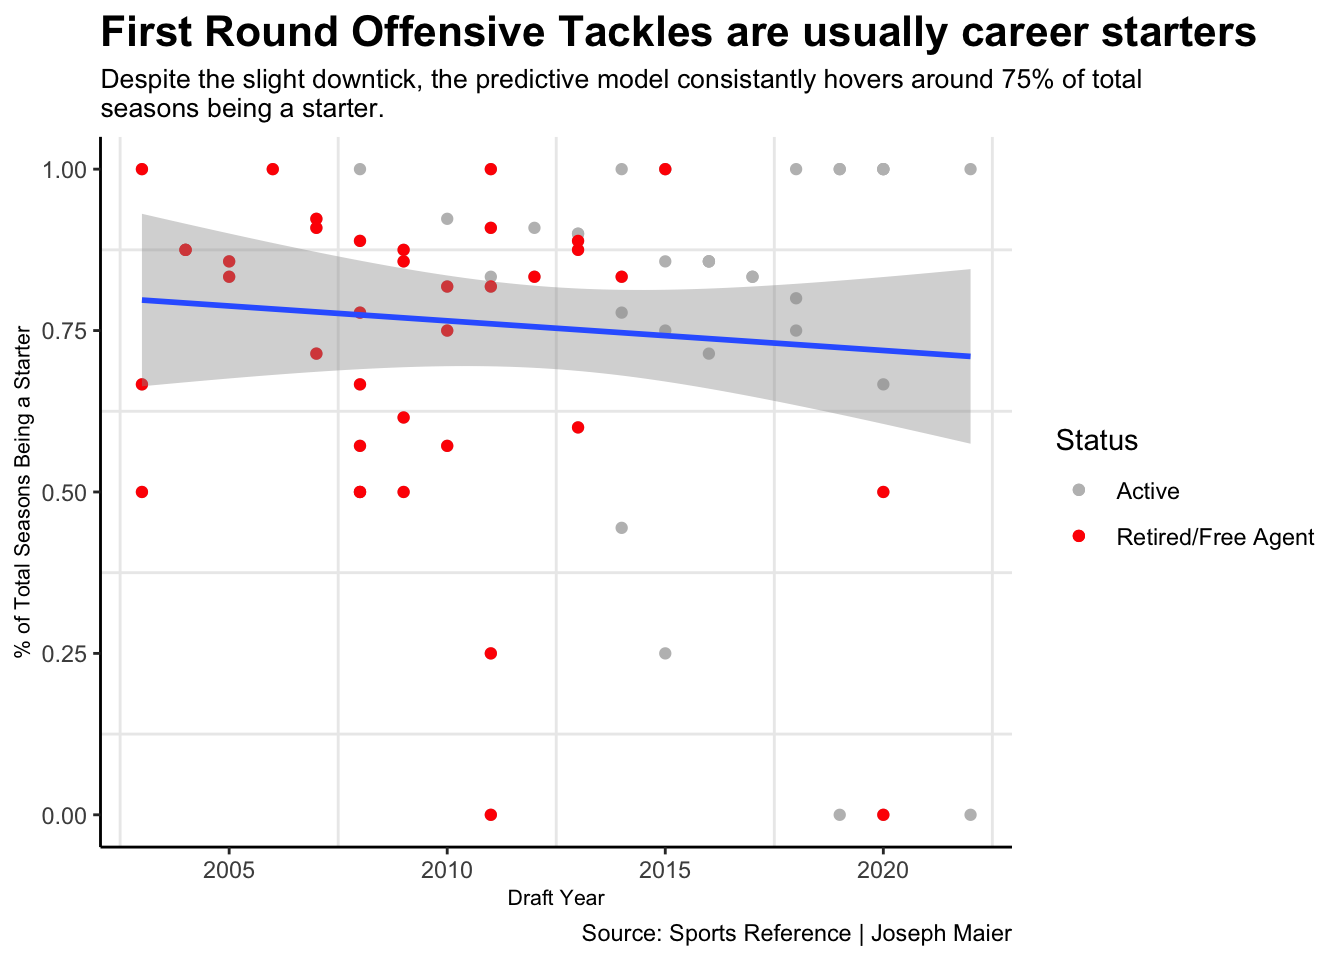
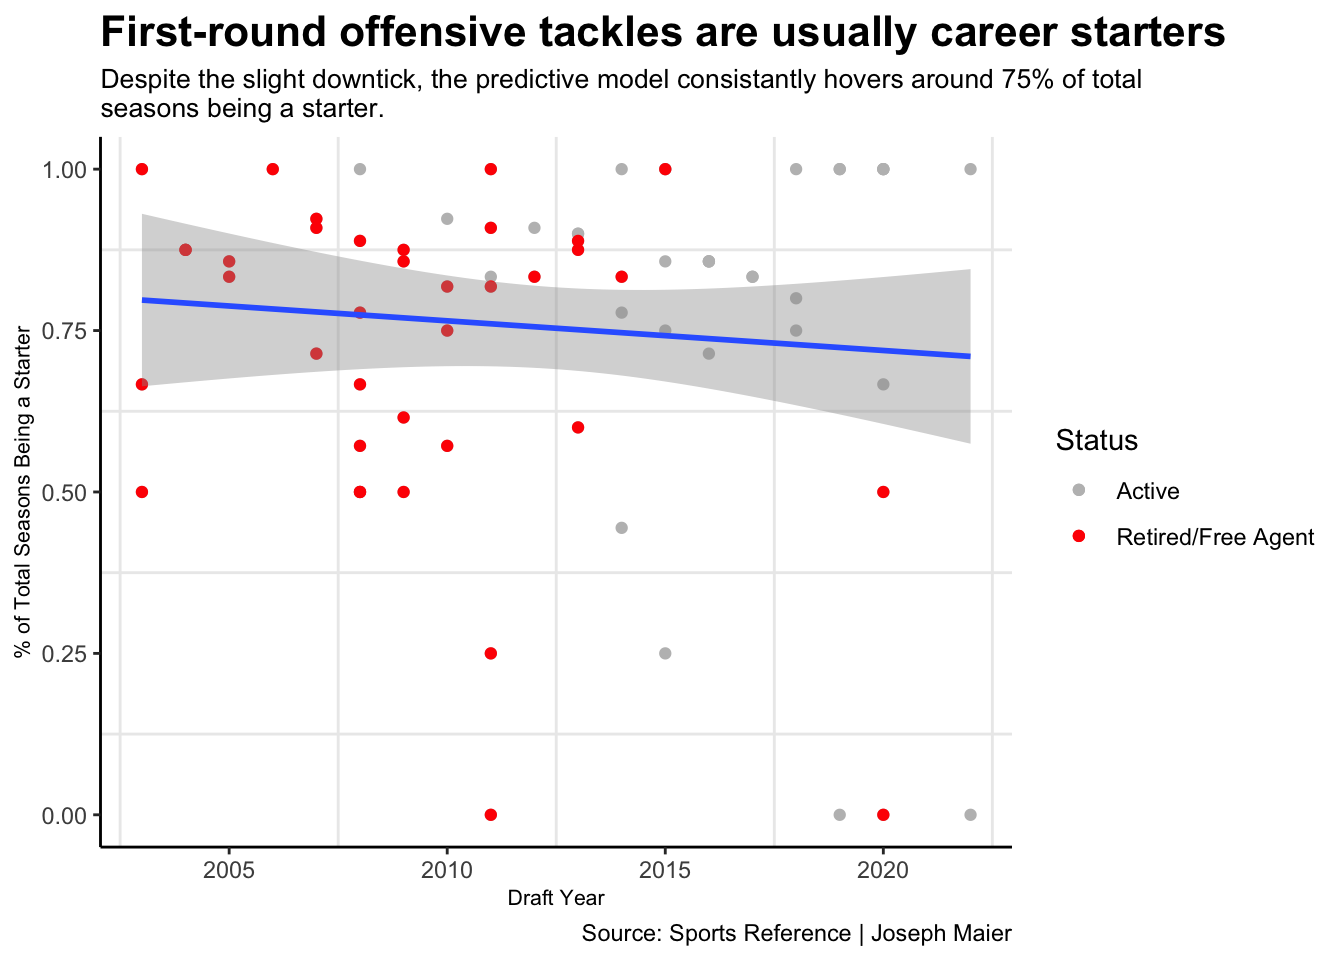
Final
Final test to make sure everything is working

Changed region(s): [[0.1562, 0.0, 0.9375, 0.0625]]

diff --git a/posts/first_round_running_backs/index.html b/posts/first_round_running_backs/index.html
@@ -6,8 +6,10 @@
 
 <meta name="viewport" content="width=device-width, initial-scale=1.0, user-scalable=yes">
 
+<meta name="author" content="Joseph Maier">
+<meta name="dcterms.date" content="2022-04-16">
 
-<title>Joseph Maier’s Blog - Latest Posts</title>
+<title>Joseph Maier’s Blog - Are first-round running backs worth the price?</title>
 <style>
 code{white-space: pre-wrap;}
 span.smallcaps{font-variant: small-caps;}
@@ -23,26 +25,24 @@ ul.task-list li input[type="checkbox"] {
 </style>
 
 
-<script src="site_libs/quarto-nav/quarto-nav.js"></script>
-<script src="site_libs/quarto-nav/headroom.min.js"></script>
-<script src="site_libs/clipboard/clipboard.min.js"></script>
-<script src="site_libs/quarto-search/autocomplete.umd.js"></script>
-<script src="site_libs/quarto-search/fuse.min.js"></script>
-<script src="site_libs/quarto-search/quarto-search.js"></script>
-<meta name="quarto:offset" content="./">
-<script src="site_libs/quarto-listing/list.min.js"></script>
-<script src="site_libs/quarto-listing/quarto-listing.js"></script>
-<script src="site_libs/quarto-html/quarto.js"></script>
-<script src="site_libs/quarto-html/popper.min.js"></script>
-<script src="site_libs/quarto-html/tippy.umd.min.js"></script>
-<script src="site_libs/quarto-html/anchor.min.js"></script>
-<link href="site_libs/quarto-html/tippy.css" rel="stylesheet">
-<link href="site_libs/quarto-html/quarto-syntax-highlighting.css" rel="stylesheet" class="quarto-color-scheme" id="quarto-text-highlighting-styles">
-<link href="site_libs/quarto-html/quarto-syntax-highlighting-dark.css" rel="prefetch" class="quarto-color-scheme quarto-color-alternate" id="quarto-text-highlighting-styles">
-<script src="site_libs/bootstrap/bootstrap.min.js"></script>
-<link href="site_libs/bootstrap/bootstrap-icons.css" rel="stylesheet">
-<link href="site_libs/bootstrap/bootstrap.min.css" rel="stylesheet" class="quarto-color-scheme" id="quarto-bootstrap" data-mode="light">
-<link href="site_libs/bootstrap/bootstrap-dark.min.css" rel="prefetch" class="quarto-color-scheme quarto-color-alternate" id="quarto-bootstrap" data-mode="dark">
+<script src="../../site_libs/quarto-nav/quarto-nav.js"></script>
+<script src="../../site_libs/quarto-nav/headroom.min.js"></script>
+<script src="../../site_libs/clipboard/clipboard.min.js"></script>
+<script src="../../site_libs/quarto-search/autocomplete.umd.js"></script>
+<script src="../../site_libs/quarto-search/fuse.min.js"></script>
+<script src="../../site_libs/quarto-search/quarto-search.js"></script>
+<meta name="quarto:offset" content="../../">
+<script src="../../site_libs/quarto-html/quarto.js"></script>
+<script src="../../site_libs/quarto-html/popper.min.js"></script>
+<script src="../../site_libs/quarto-html/tippy.umd.min.js"></script>
+<script src="../../site_libs/quarto-html/anchor.min.js"></script>
+<link href="../../site_libs/quarto-html/tippy.css" rel="stylesheet">
+<link href="../../site_libs/quarto-html/quarto-syntax-highlighting.css" rel="stylesheet" class="quarto-color-scheme" id="quarto-text-highlighting-styles">
+<link href="../../site_libs/quarto-html/quarto-syntax-highlighting-dark.css" rel="prefetch" class="quarto-color-scheme quarto-color-alternate" id="quarto-text-highlighting-styles">
+<script src="../../site_libs/bootstrap/bootstrap.min.js"></script>
+<link href="../../site_libs/bootstrap/bootstrap-icons.css" rel="stylesheet">
+<link href="../../site_libs/bootstrap/bootstrap.min.css" rel="stylesheet" class="quarto-color-scheme" id="quarto-bootstrap" data-mode="light">
+<link href="../../site_libs/bootstrap/bootstrap-dark.min.css" rel="prefetch" class="quarto-color-scheme quarto-color-alternate" id="quarto-bootstrap" data-mode="dark">
 <script id="quarto-search-options" type="application/json">{
   "location": "navbar",
   "copy-button": false,
@@ -62,49 +62,19 @@ ul.task-list li input[type="checkbox"] {
     "search-submit-button-title": "Submit"
   }
 }</script>
-<script>
 
-  window.document.addEventListener("DOMContentLoaded", function (_event) {
-    const listingTargetEl = window.document.querySelector('#listing-listing .list');
-    if (!listingTargetEl) {
-      // No listing discovered, do not attach.
-      return; 
-    }
 
-    const options = {
-      valueNames: ['listing-date','listing-title','listing-author','listing-image','listing-description','listing-categories',{ data: ['index'] },{ data: ['categories'] },{ data: ['listing-date-sort'] },{ data: ['listing-file-modified-sort'] }],
-      
-      searchColumns: ["listing-date","listing-title","listing-author","listing-image","listing-description","listing-categories"],
-    };
-
-    window['quarto-listings'] = window['quarto-listings'] || {};
-    window['quarto-listings']['listing-listing'] = new List('listing-listing', options);
-
-    if (window['quarto-listing-loaded']) {
-      window['quarto-listing-loaded']();
-    }
-  });
-
-  window.addEventListener('hashchange',() => {
-    if (window['quarto-listing-loaded']) {
-      window['quarto-listing-loaded']();
-    }
-  })
-  </script>
-
-  <script src="https://cdn.jsdelivr.net/npm/mathjax@3/es5/tex-chtml-full.js" type="text/javascript"></script>
-
-<link rel="stylesheet" href="styles.css">
+<link rel="stylesheet" href="../../styles.css">
 </head>
 
-<body class="nav-fixed">
+<body class="nav-fixed fullcontent">
 
 <div id="quarto-search-results"></div>
   <header id="quarto-header" class="headroom fixed-top">
     <nav class="navbar navbar-expand-lg navbar-dark ">
       <div class="navbar-container container-fluid">
       <div class="navbar-brand-container">
-    <a class="navbar-brand" href="./index.html">
+    <a class="navbar-brand" href="../../index.html">
     <span class="navbar-title">Joseph Maier’s Blog</span>
     </a>
   </div>
@@ -114,7 +84,7 @@ ul.task-list li input[type="checkbox"] {
           <div class="collapse navbar-collapse" id="navbarCollapse">
             <ul class="navbar-nav navbar-nav-scroll ms-auto">
   <li class="nav-item">
-    <a class="nav-link" href="./about.html">
+    <a class="nav-link" href="../../about.html">
  <span class="menu-text">About</span></a>
   </li>  
   <li class="nav-item compact">
@@ -137,86 +107,52 @@ ul.task-list li input[type="checkbox"] {
     </nav>
 </header>
 <!-- content -->
-<header id="title-block-header" class="quarto-title-block default page-columns page-full">
-  <div class="quarto-title-banner page-columns page-full">
-    <div class="quarto-title column-page-left">
-      <h1 class="title">Latest Posts</h1>
-                      </div>
-  </div>
-    
-  
-  <div class="quarto-title-meta">
-
-      
-    
-      
-    </div>
-    
-  
-  </header><div id="quarto-content" class="quarto-container page-columns page-rows-contents page-layout-full page-navbar">
+<div id="quarto-content" class="quarto-container page-columns page-rows-contents page-layout-article page-navbar">
 <!-- sidebar -->
 <!-- margin-sidebar -->
-    <div id="quarto-margin-sidebar" class="sidebar margin-sidebar">
-        
-    <h5 class="quarto-listing-category-title">Categories</h5><div class="quarto-listing-category category-default"><div class="category" data-category="">All <span class="quarto-category-count">(1)</span></div><div class="category" data-category="draft">draft <span class="quarto-category-count">(1)</span></div><div class="category" data-category="nfl">nfl <span class="quarto-category-count">(1)</span></div><div class="category" data-category="runningbacks">runningbacks <span class="quarto-category-count">(1)</span></div></div></div>
+    
 <!-- main -->
-<main class="content quarto-banner-title-block column-page-left" id="quarto-document-content">
+<main class="content" id="quarto-document-content">
+
+<header id="title-block-header" class="quarto-title-block default">
+<div class="quarto-title">
+<h1 class="title">Are first-round running backs worth the price?</h1>
+  <div class="quarto-categories">
+    <div class="quarto-category">nfl</div>
+    <div class="quarto-category">runningbacks</div>
+    <div class="quarto-category">draft</div>
+  </div>
+  </div>
 
 
 
+<div class="quarto-title-meta">
+
+    <div>
+    <div class="quarto-title-meta-heading">Author</div>
+    <div class="quarto-title-meta-contents">
+             <p>Joseph Maier </p>
+          </div>
+  </div>
+    
+    <div>
+    <div class="quarto-title-meta-heading">Published</div>
+    <div class="quarto-title-meta-contents">
+      <p class="date">April 16, 2022</p>
+    </div>
+  </div>
+  
+    
+  </div>
+  
+
+</header>
+
+<p>dff</p>
 
 
 
-
-
-<div class="quarto-listing quarto-listing-container-default" id="listing-listing">
-<div class="list quarto-listing-default">
-<div class="quarto-post image-right" data-index="0" data-categories="nfl,runningbacks,draft" data-listing-date-sort="1650085200000" data-listing-file-modified-sort="1681715253709" data-listing-reading-time-sort="8.3">
-<div class="thumbnail">
-<p><a href="./posts/first-round-running-backs/index.html"> <img src="./posts/first-round-running-backs/chart.jpg" class="thumnail-image"> </a></p>
-</div>
-<div class="body">
-<a href="./posts/first-round-running-backs/index.html">
-<h3 class="no-anchor listing-title">
-Are first-round running backs worth the price?
-</h3>
-<div class="listing-subtitle">
-
-</div>
-</a>
-<div class="listing-categories">
-<div class="listing-category" onclick="window.quartoListingCategory('nfl'); return false;">
-nfl
-</div>
-<div class="listing-category" onclick="window.quartoListingCategory('runningbacks'); return false;">
-runningbacks
-</div>
-<div class="listing-category" onclick="window.quartoListingCategory('draft'); return false;">
-draft
-</div>
-</div>
-<a href="./posts/first-round-running-backs/index.html">
-<div class="listing-description">
-With the…
-</div>
-</a>
-</div>
-<div class="metadata">
-<a href="./posts/first-round-running-backs/index.html">
-<div class="listing-date">
-Apr 16, 2022
-</div>
-<div class="listing-author">
-Joseph Maier
-</div>
-</a>
-</div>
-</div>
-</div>
-<div class="listing-no-matching d-none">
-No matching items
-</div>
-</div></main> <!-- /main -->
+</main> <!-- /main -->
 <script id="quarto-html-after-body" type="application/javascript">
 window.document.addEventListener("DOMContentLoaded", function (event) {
   const toggleBodyColorMode = (bsSheetEl) => {

diff --git a/posts/first-round-running-backs/index.html b/posts/first-round-running-backs/index.html
@@ -234,8 +234,8 @@ code span.wa { color: #60a0b0; font-weight: bold; font-style: italic; } /* Warni
 <span id="cb1-13"><a href="#cb1-13" aria-hidden="true" tabindex="-1"></a>    <span class="at">x=</span><span class="st">"Team"</span>, </span>
 <span id="cb1-14"><a href="#cb1-14" aria-hidden="true" tabindex="-1"></a>    <span class="at">y=</span><span class="st">"Total Wins Since 2002"</span>, </span>
 <span id="cb1-15"><a href="#cb1-15" aria-hidden="true" tabindex="-1"></a>       <span class="at">title=</span><span class="st">"First-round running backs rarely contribute to winning teams"</span>, </span>
-<span id="cb1-16"><a href="#cb1-16" aria-hidden="true" tabindex="-1"></a>    <span class="at">subtitle=</span><span class="st">"Since 2002, only six NFL teams have had a first-round running back that they drafted on their roster in over </span></span>
-<span id="cb1-17"><a href="#cb1-17" aria-hidden="true" tabindex="-1"></a><span class="st">half their total wins."</span>, </span>
+<span id="cb1-16"><a href="#cb1-16" aria-hidden="true" tabindex="-1"></a>    <span class="at">subtitle=</span><span class="st">"Since 2002, only six NFL teams have had a first-round running back that they drafted on their roster </span></span>
+<span id="cb1-17"><a href="#cb1-17" aria-hidden="true" tabindex="-1"></a><span class="st">in over half their total wins."</span>, </span>
 <span id="cb1-18"><a href="#cb1-18" aria-hidden="true" tabindex="-1"></a>    <span class="at">caption=</span><span class="st">"Source: Sports Reference | By Joseph Maier"</span></span>
 <span id="cb1-19"><a href="#cb1-19" aria-hidden="true" tabindex="-1"></a>    ) <span class="sc">+</span> <span class="fu">theme_classic</span>() <span class="sc">+</span>  <span class="fu">theme</span>(</span>
 <span id="cb1-20"><a href="#cb1-20" aria-hidden="true" tabindex="-1"></a>    <span class="at">plot.title =</span> <span class="fu">element_text</span>(<span class="at">size =</span> <span class="dv">16</span>, <span class="at">face =</span> <span class="st">"bold"</span>),</span>
@@ -312,7 +312,7 @@ code span.wa { color: #60a0b0; font-weight: bold; font-style: italic; } /* Warni
 <span id="cb3-31"><a href="#cb3-31" aria-hidden="true" tabindex="-1"></a>  <span class="fu">labs</span>(</span>
 <span id="cb3-32"><a href="#cb3-32" aria-hidden="true" tabindex="-1"></a>    <span class="at">x=</span><span class="st">"Draft Year"</span>, </span>
 <span id="cb3-33"><a href="#cb3-33" aria-hidden="true" tabindex="-1"></a>    <span class="at">y=</span><span class="st">"% of Total Seasons Being a Starter"</span>, </span>
-<span id="cb3-34"><a href="#cb3-34" aria-hidden="true" tabindex="-1"></a>    <span class="at">title=</span><span class="st">"Running backs have begun to start more of their total seasons"</span>, </span>
+<span id="cb3-34"><a href="#cb3-34" aria-hidden="true" tabindex="-1"></a>    <span class="at">title=</span><span class="st">"Running backs have begun to start more"</span>, </span>
 <span id="cb3-35"><a href="#cb3-35" aria-hidden="true" tabindex="-1"></a>    <span class="at">subtitle=</span><span class="st">"But it's not consistent, and the predictive model is inflated by younger players that</span></span>
 <span id="cb3-36"><a href="#cb3-36" aria-hidden="true" tabindex="-1"></a><span class="st">haven't retired yet."</span>, </span>
 <span id="cb3-37"><a href="#cb3-37" aria-hidden="true" tabindex="-1"></a>    <span class="at">caption=</span><span class="st">"Source: Sports Reference | Joseph Maier"</span></span>
@@ -340,7 +340,7 @@ code span.wa { color: #60a0b0; font-weight: bold; font-style: italic; } /* Warni
 <span id="cb4-6"><a href="#cb4-6" aria-hidden="true" tabindex="-1"></a>  <span class="fu">labs</span>(</span>
 <span id="cb4-7"><a href="#cb4-7" aria-hidden="true" tabindex="-1"></a>    <span class="at">x=</span><span class="st">"Draft Year"</span>, </span>
 <span id="cb4-8"><a href="#cb4-8" aria-hidden="true" tabindex="-1"></a>    <span class="at">y=</span><span class="st">"% of Total Seasons Being a Starter"</span>, </span>
-<span id="cb4-9"><a href="#cb4-9" aria-hidden="true" tabindex="-1"></a>    <span class="at">title=</span><span class="st">"First Round Offensive Tackles are usually career starters"</span>, </span>
+<span id="cb4-9"><a href="#cb4-9" aria-hidden="true" tabindex="-1"></a>    <span class="at">title=</span><span class="st">"First-round offensive tackles are usually career starters"</span>, </span>
 <span id="cb4-10"><a href="#cb4-10" aria-hidden="true" tabindex="-1"></a>    <span class="at">subtitle=</span><span class="st">"Despite the slight downtick, the predictive model consistantly hovers around 75% of total </span></span>
 <span id="cb4-11"><a href="#cb4-11" aria-hidden="true" tabindex="-1"></a><span class="st">seasons being a starter."</span>, </span>
 <span id="cb4-12"><a href="#cb4-12" aria-hidden="true" tabindex="-1"></a>    <span class="at">caption=</span><span class="st">"Source: Sports Reference | Joseph Maier"</span></span>
